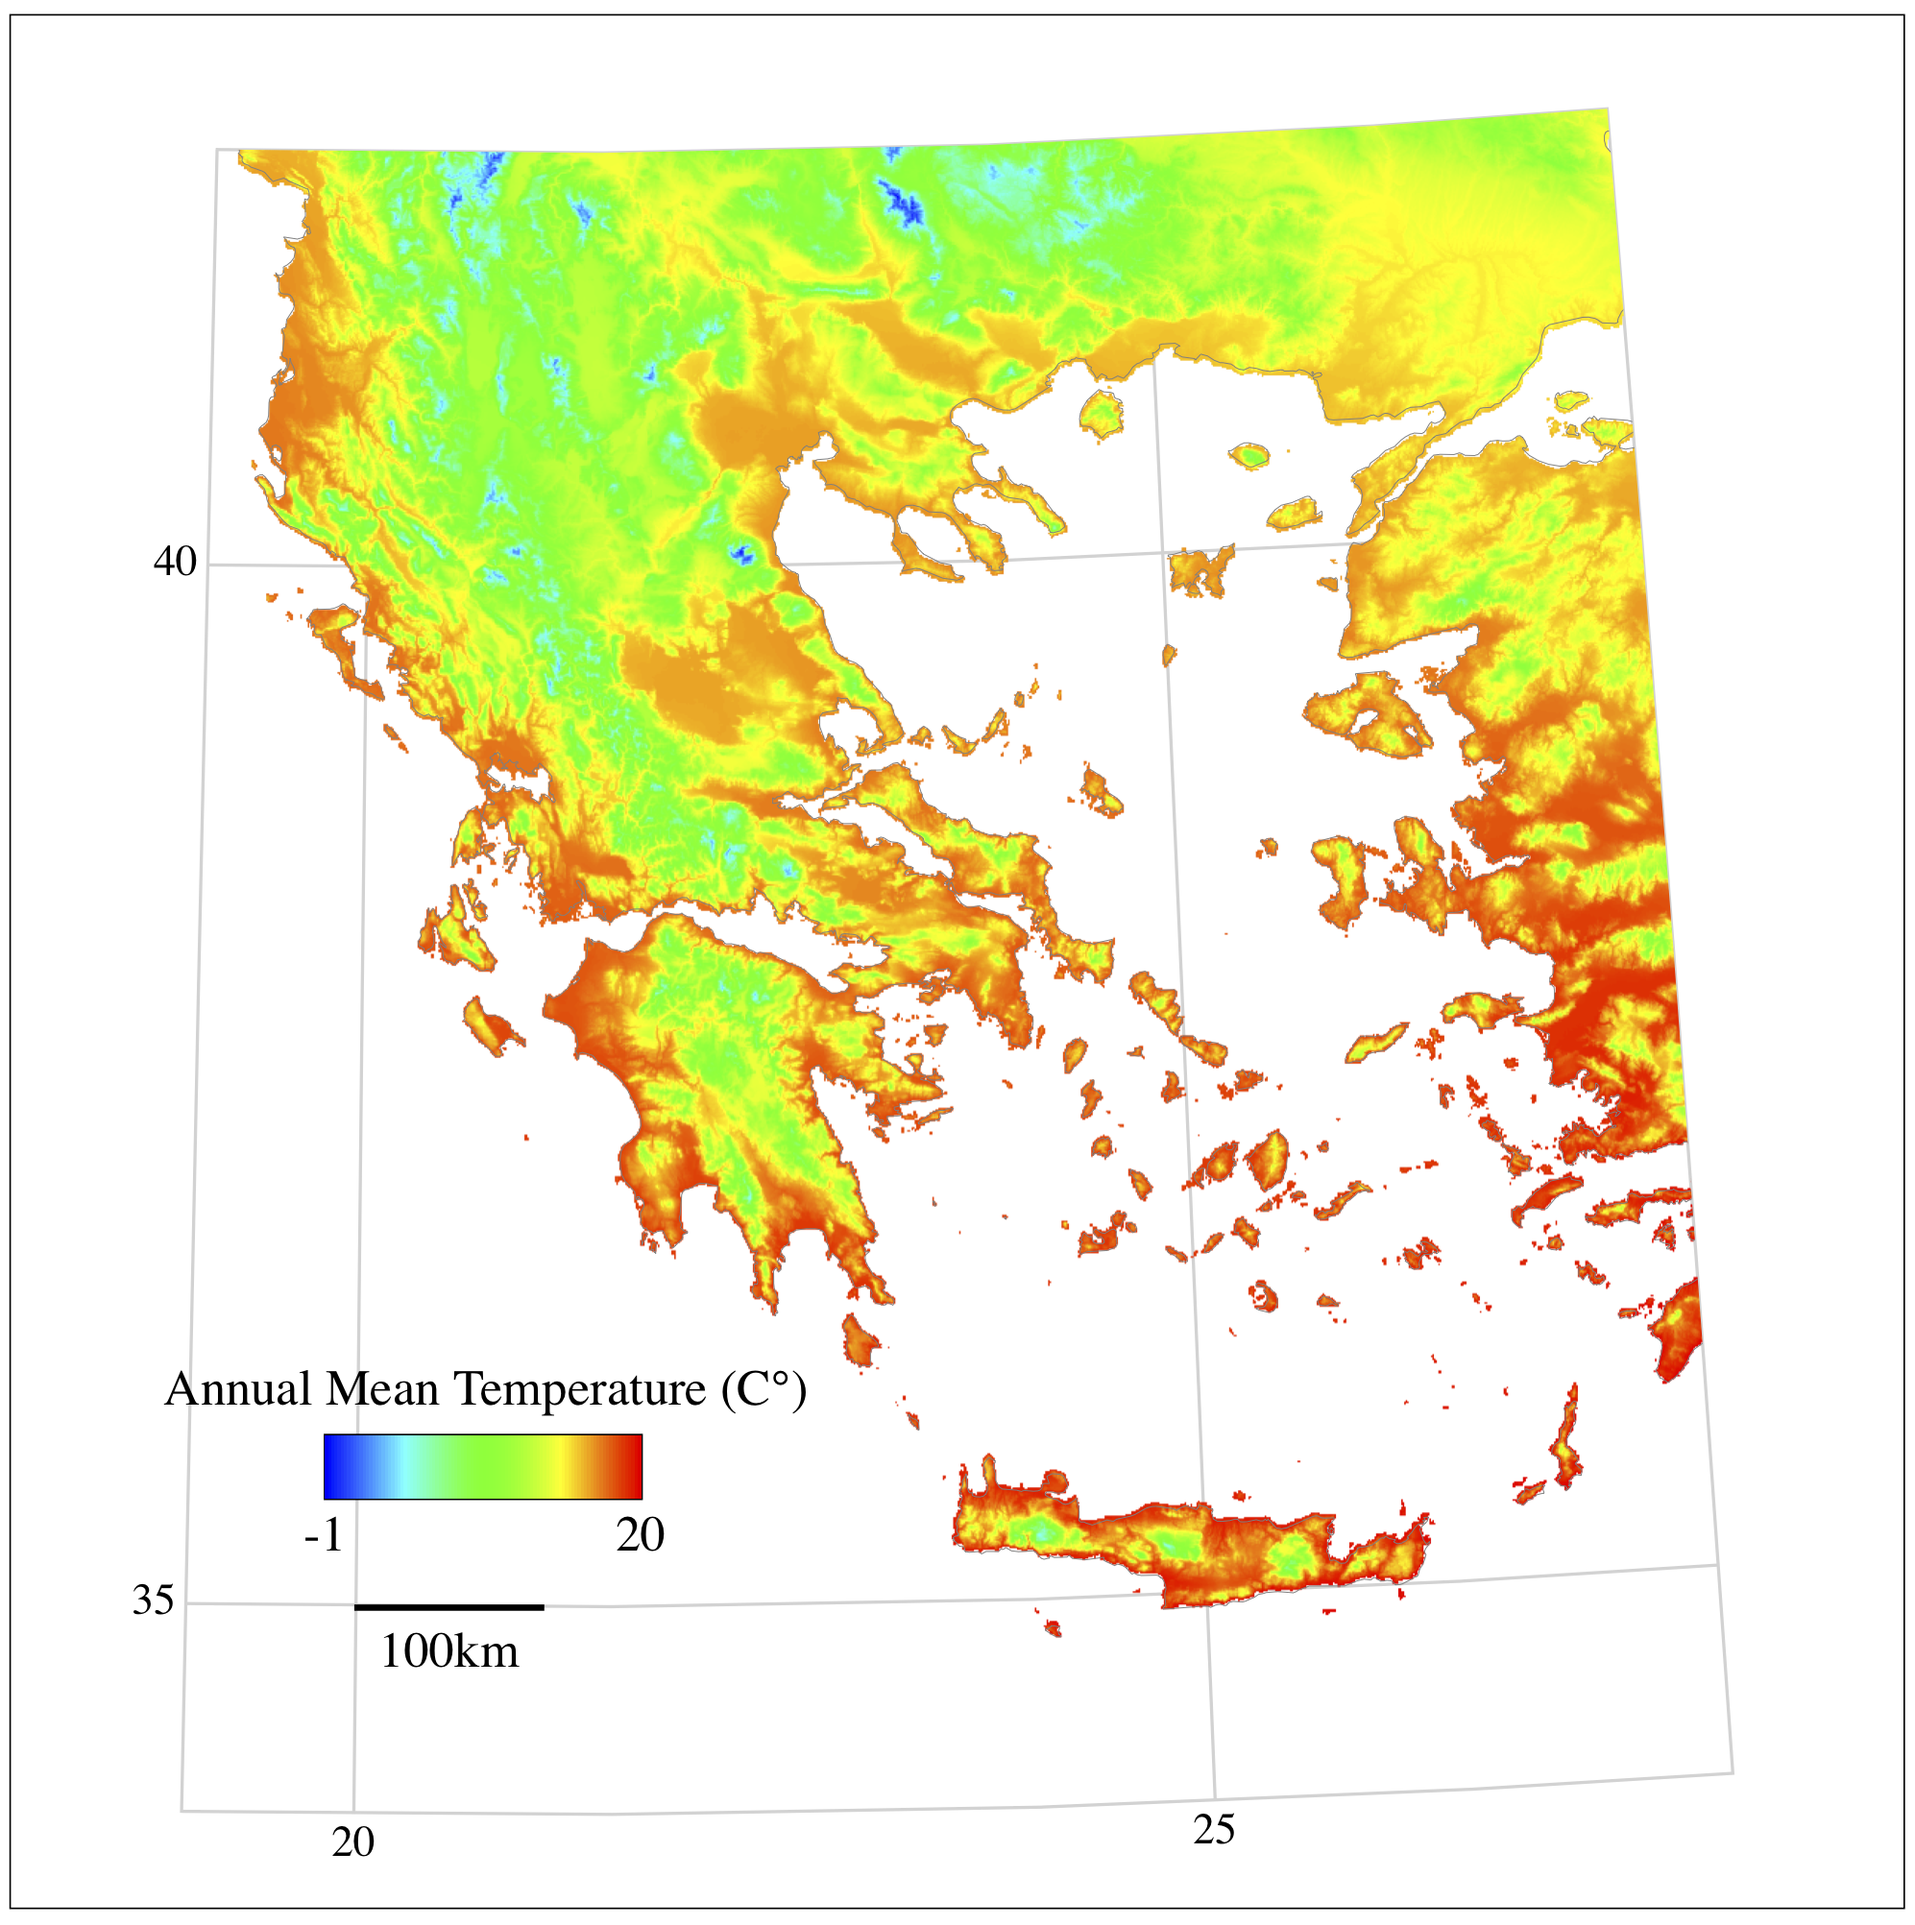
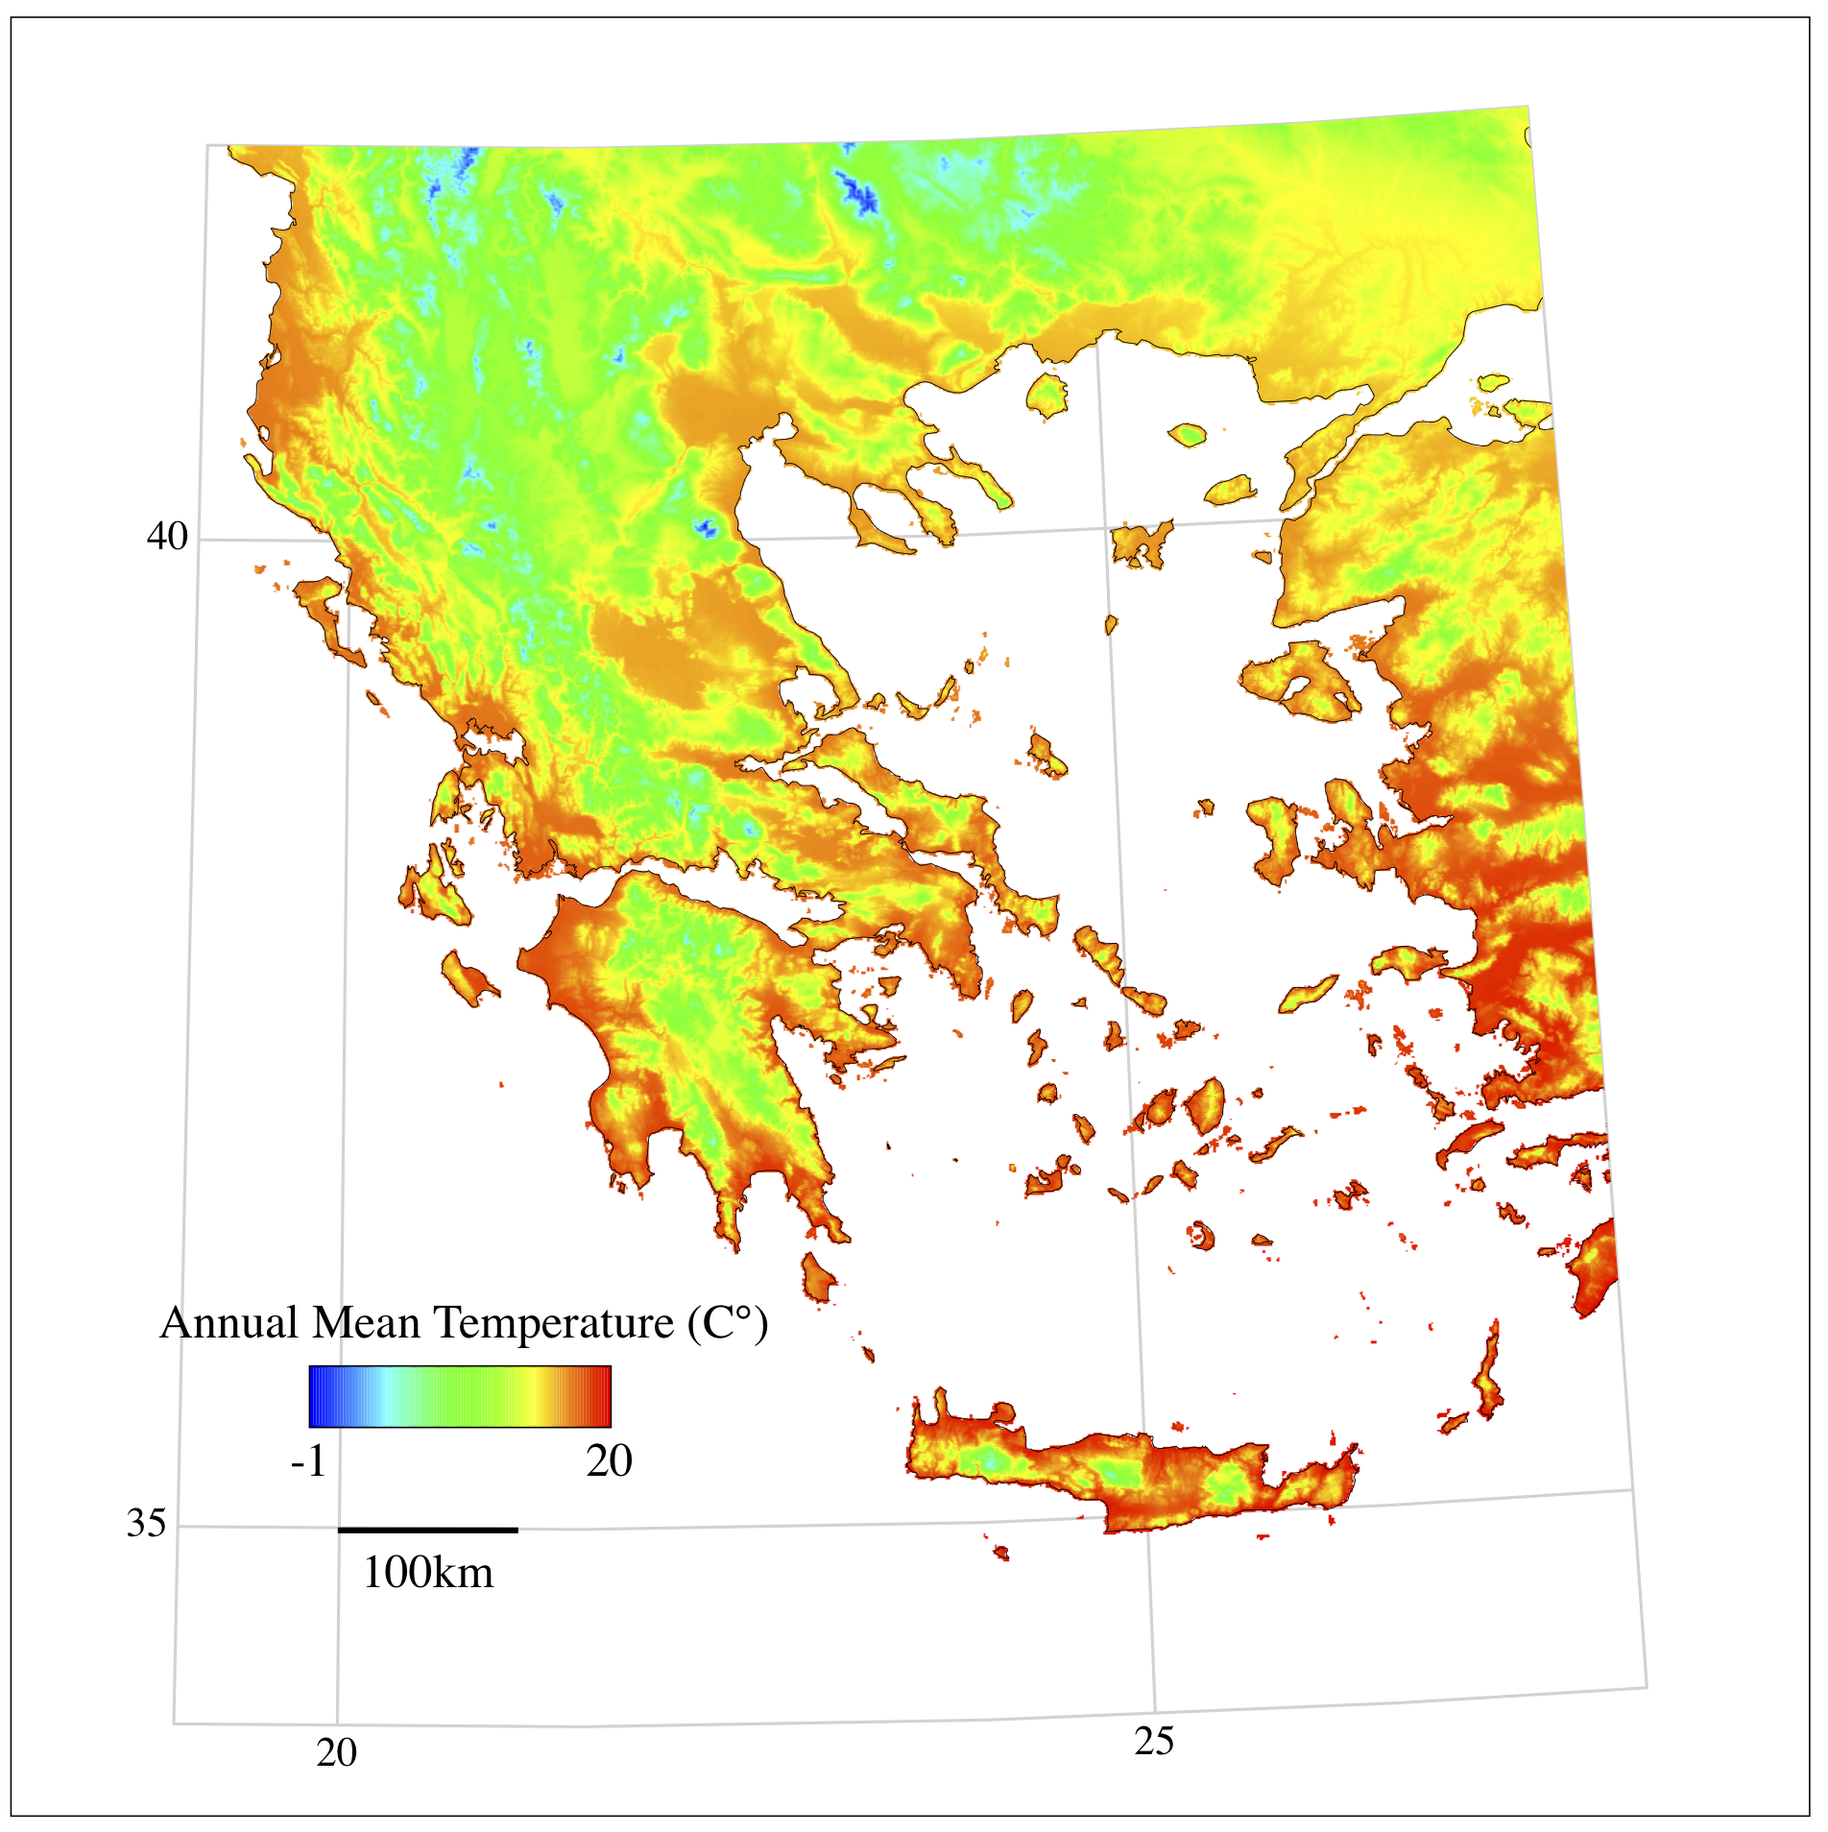
plotImage preserveAspectRatio

diff --git a/strabo.js b/strabo.js
@@ -301,15 +301,17 @@ function plotImage({container, base, imageFile, imgBounds, imgCenter, sphere = f
 		var projRasterY = projCenter[1] - projRasterHeight/2;
 
 		//readjust width, height
-		var dx = d3.max(imgBounds.map(d=>base.projection(d)[0] - (projRasterX + projRasterWidth)));
-		var dy = d3.max(imgBounds.map(d=>base.projection(d)[1] - (projRasterY + projRasterHeight)));
+		//var dx = d3.max(imgBounds.map(d=>base.projection(d)[0] - (projRasterX + projRasterWidth)));
+		//var dy = d3.max(imgBounds.map(d=>base.projection(d)[1] - (projRasterY + projRasterHeight)));
+		var dx = 0;
+		var dy = 0;
 
 		cont.append('svg:image')
 			.attr('x', projRasterX)
 			.attr('y', projRasterY)
 			.attr('xlink:href', imageFile)
 			.attr('width', projRasterWidth + dx)
-			.attr('height', projRasterHeight + dy) //pixel correction, may not be necessary in all screens
+			.attr('height', projRasterHeight + dy)
 			.attr('clip-path', 'url(#' + clipID + ')')
 			.attr('preserveAspectRatio', 'none');
 	};
@@ -623,15 +625,15 @@ function plotRaster({container, base, rasterFile, dataScale, excludeValues = [],
 			const projLrBound = base.projection(data.loRight);
 
 			//use the center and get maximum value to account for ill-defined corners
-			var projRasterWidth = 2*d3.max([projCenter[0] - projUlBound[0],
+			var projRasterWidth = Math.abs(2*d3.min([projCenter[0] - projUlBound[0],
 											projCenter[0] - projLlBound[0],
 											projLrBound[0] - projCenter[0],
-											projUrBound[0] - projCenter[0]]);
+											projUrBound[0] - projCenter[0]]));
 
-			var projRasterHeight = 2*d3.max([projCenter[1] - projUlBound[1],
+			var projRasterHeight = Math.abs(2*d3.min([projCenter[1] - projUlBound[1],
 											projCenter[1] - projLlBound[1],
 											projLrBound[1] - projCenter[1],
-											projUrBound[1] - projCenter[1]]);
+											projUrBound[1] - projCenter[1]]));
 		};
 
 		const cellWidth = projRasterWidth / rasW; // number of screen pixels each raster cell is

diff --git a/README.md b/README.md
@@ -448,7 +448,7 @@ and finally in the html file
 
 ```javascript
 
-/define the main container
+//define the main container
 var svg = d3.select('body').append('svg')
     .attr('width', '600')
     .attr('height', '600')
